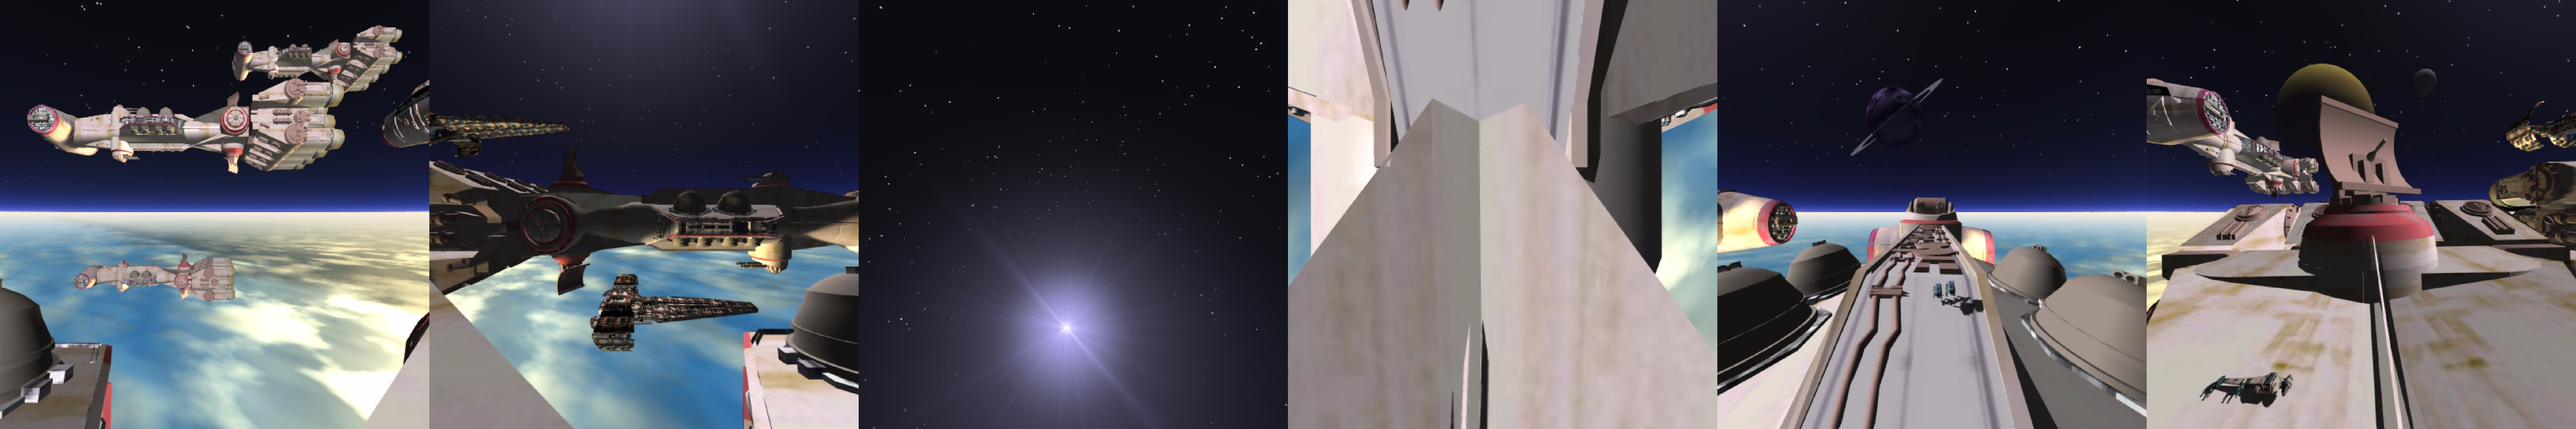
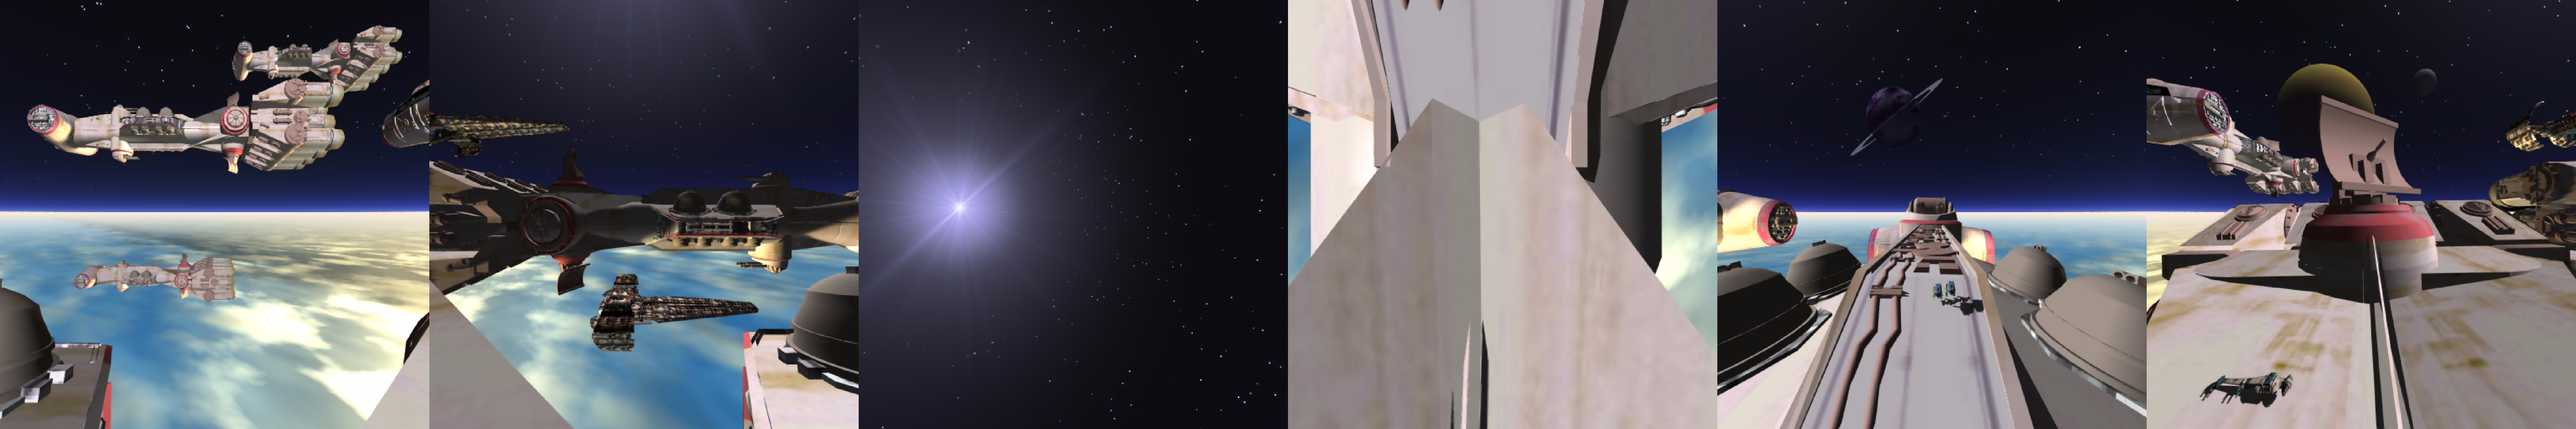
Reorient up tile and took out antialias to see if edges are still smooth

Changed region(s): [[0.3117, 0.0, 0.4987, 1.0]]

diff --git a/index.html b/index.html
@@ -32,7 +32,7 @@
 			var container = document.getElementById('container');
 
 			// create renderer, make responsive, and add to DOM
-			renderer = new THREE.WebGLRenderer({antialias:true});
+			renderer = new THREE.WebGLRenderer();
 			renderer.setPixelRatio(window.devicePixelRatio);
 			renderer.setSize(window.innerWidth, window.innerHeight);
 			container.appendChild(renderer.domElement);
